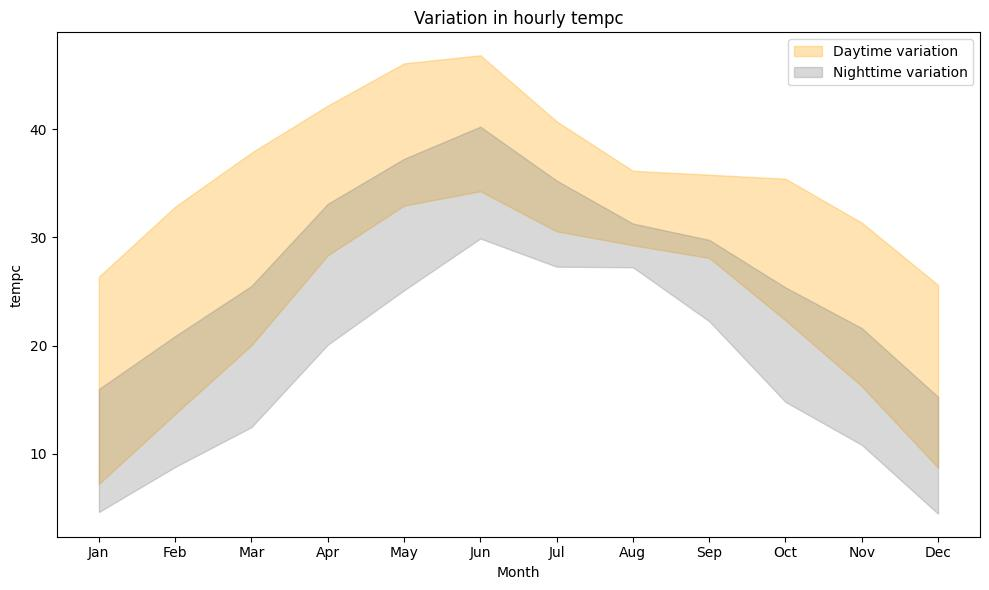
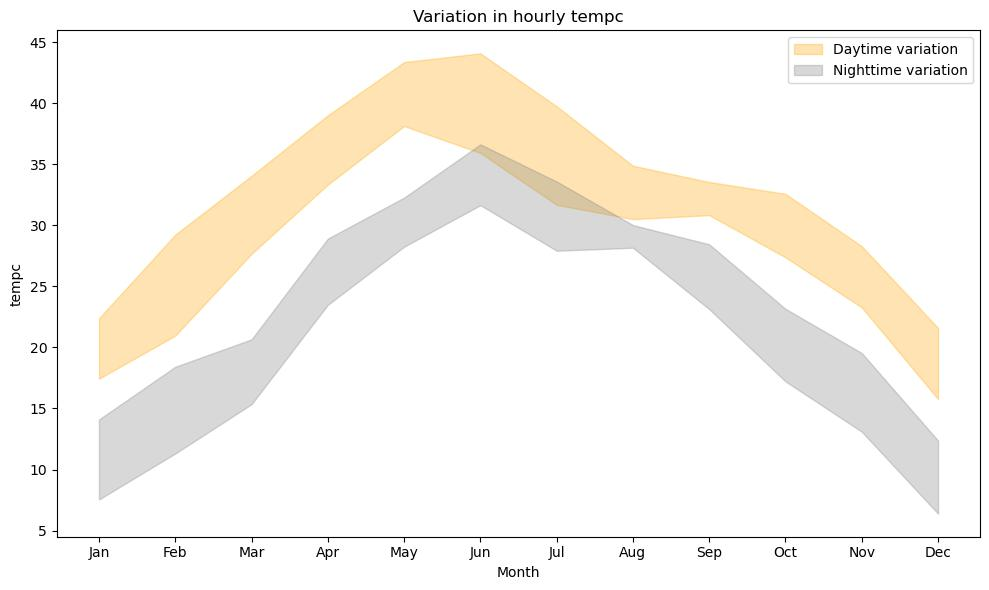
Update percentile caclulation

diff --git a/scripts/byday_stats.py b/scripts/byday_stats.py
@@ -31,18 +31,19 @@ def q5(x):
 def q95(x):
     return x.quantile(0.95)
 
+#Calculate daily averages
+daily_averages = citymet_df.groupby(['month','day'])[['tempc', 'ws', 'mixht']].mean().reset_index()
+daily_averages_daytime = citymet_df[(citymet_df['hour'] >=7)&(citymet_df['hour'] <=18)].groupby(['month','day'])[['tempc', 'ws', 'mixht']].mean().reset_index()
+daily_averages_nighttime = citymet_df[(citymet_df['hour'] <=6)|(citymet_df['hour'] >=19)].groupby(['month','day'])[['tempc', 'ws', 'mixht']].mean().reset_index()
+
 # Calculate monthly average, 5th percentile, and 95th percentile
-monthly_stats = citymet_df.groupby('month').agg({'tempc':[q5, q95, 'mean'],
-                                                 'ws':[q5, q95, 'mean'],
-                                                 'mixht':[q5, q95, 'mean']}).reset_index()
+monthly_stats_daytime = daily_averages_daytime.groupby('month').agg({'tempc':[q5, q95, 'mean'],
+                                                                    'ws':[q5, q95, 'mean'],
+                                                                    'mixht':[q5, q95, 'mean']}).reset_index()
 
-monthly_stats_daytime = citymet_df[(citymet_df['hour'] >=7)&(citymet_df['hour'] <=18)].groupby('month').agg({'tempc':[q5, q95, 'mean'],
-                                                                                                    'ws':[q5, q95, 'mean'],
-                                                                                                    'mixht':[q5, q95, 'mean']}).reset_index()
-
-monthly_stats_nightime = citymet_df[(citymet_df['hour'] <=6)|(citymet_df['hour'] >=19)].groupby('month').agg({'tempc':[q5, q95, 'mean'],
-                                                                                                    'ws':[q5, q95, 'mean'],
-                                                                                                    'mixht':[q5, q95, 'mean']}).reset_index()
+monthly_stats_nightime = daily_averages_nighttime.groupby('month').agg({'tempc':[q5, q95, 'mean'],
+                                                                        'ws':[q5, q95, 'mean'],
+                                                                        'mixht':[q5, q95, 'mean']}).reset_index()
 
 
 for var in ['tempc', 'ws', 'mixht']:
@@ -61,7 +62,7 @@ for var in ['tempc', 'ws', 'mixht']:
     plt.xlabel('Month')
     plt.ylabel(var)
     plt.title('Variation in hourly '+var)
-    plt.xticks(monthly_stats[('month', '')])
+    plt.xticks(monthly_stats_daytime[('month', '')])
     plt.legend()
     plt.tight_layout()
     plt.savefig(os.getcwd()+'/docs/'+city_name+'_'+var+'_hourlyvariationbyyear_'+year+'.jpg', bbox_inches='tight')
